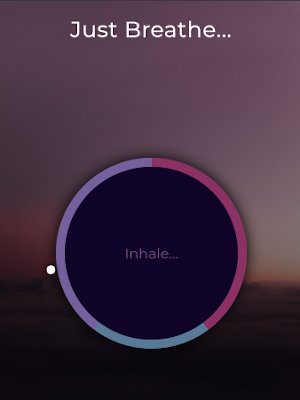
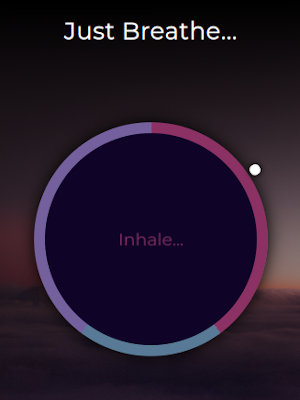
redid the backgrounds and stylings for the breathe app

diff --git a/index.html b/index.html
@@ -404,7 +404,7 @@
               </div>
             </a>
             <div class="project-photo-title">
-              <span class="yellow-text">Just Breathe</span>
+              <span class="yellow-text">Just Breathe...</span>
               <div class="project-stack">
                 <img src="img/skills/css.png" alt="CSS Logo" title="CSS Logo" width="100" height="114" />
                 <img src="img/skills/html.png" alt="HTML Logo" title="HTML Logo" width="100" height="114" />
@@ -415,11 +415,9 @@
             <p class="project-photo-caption">
               The original app was a
               <a class="purple-text" href="https://www.udemy.com/" target="_blank">udemy.com</a>
-              project built by
-              <span class="blue-text">Brad Traversy</span> of
-              <a class="purple-text" href="https://www.traversymedia.com/" target="_blank">Traversy Media</a>. With this
-              one, I switched up the color scheme, backgrounds,
-              action timing and a little of the code as to make it my own.
+              project that I had worked along with. I switched up a few things like the color scheme, backgrounds for
+              desktop and mobile,
+              the inhale/exhale timing and the overall page layout. It's a nice little breathing exercise.
             </p>
           </div>
           <!-- SLIDE 7 -->
